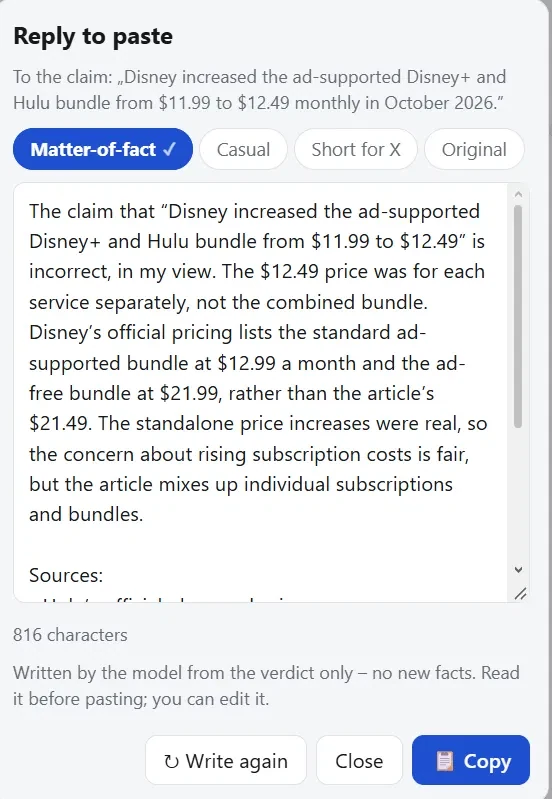
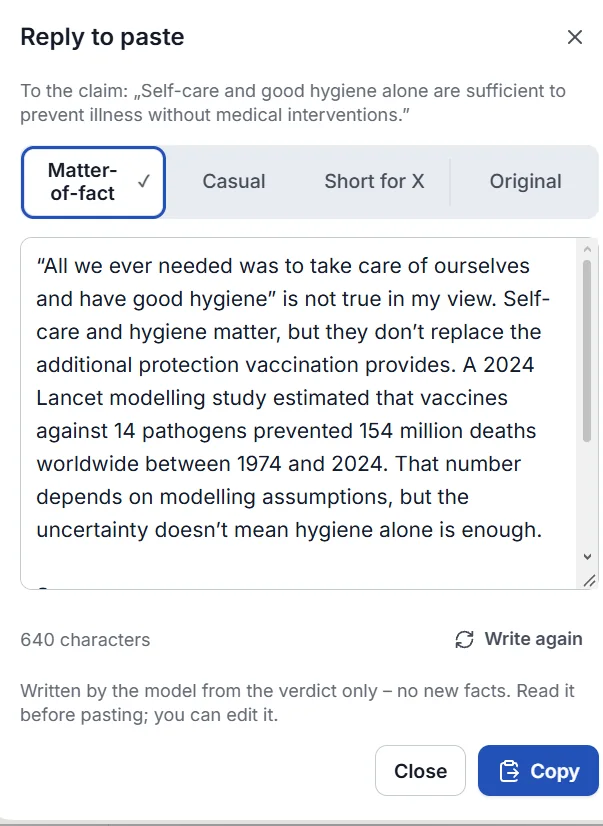
README: new English screenshots for 0.7.6
Real-use screenshots from Opera showing the 0.7.6 panel: a CNN article (top
image), a Facebook post with the result box under it, an X post with an image,
the "Copy as reply" window and a YouTube debate checked live. A private
commenter, a profile picture with another person and an account inside an
embedded screenshot are blurred.

Claude-Session: https://claude.ai/code/session_01J2r89jmiYBdtD1PuvgxGKG

diff --git a/README.md b/README.md
@@ -32,7 +32,7 @@ ready reply to paste. It also checks debates and podcasts live.
 Full guide in Polish: **[INSTRUKCJA.md](INSTRUKCJA.md)** · What's new: **[CHANGELOG.md](CHANGELOG.md)** ·
 Privacy: **[PRIVACY.md](PRIVACY.md)**
 
-![A news article checked in Opera: verdicts highlighted in the text with a tooltip, and cards with the claim, the assessment, what supports it, the context and the sources](docs/demo-en-article.webp)
+![A CNN article checked in Opera: claims highlighted in the text in the verdict's colour, verdict counts and the overall rating in the panel – what holds, what is wrong and what needs context](docs/demo-en-article.webp)
 
 ---
 
@@ -61,6 +61,8 @@ verdict with sources:
 - 🔲 **Screen area** – drag a rectangle around anything: a chart in a video, a screenshot, a comment.
 - You see a preview before anything is sent. Verdicts are **highlighted on the page** in the verdict's colour, with a tooltip.
 
+![A Facebook post checked with the post icon: the Fact Checker result box under the post with the overall rating, the verdict, the opinion, sources and “Copy as reply”, and the overall rating with image notes in the panel](docs/demo-en-post-frame.webp)
+
 **What you get**
 - **Overall rating** above the cards – one of five named levels: *Reliable* · *Reliable, minor errors* · *Mixed* ·
   *Misleading* · *Unreliable*. One or two sentences on what the piece says and whether it holds, plus ✓ what holds,
@@ -80,7 +82,7 @@ verdict with sources:
   (truncated axes, cherry-picked ranges), screenshots of posts and satire. Reverse image search (Google Lens, TinEye, Yandex) for
   photos taken out of context.
 
-![An X post with a video screenshot checked in Opera: the panel dates the footage from its caption and rates the claim “Misleading”, with the assessment, what supports it and the context](docs/demo-en-post-video.webp)
+![An X post with a screenshot of a Truth Social post checked in Opera: the result box under the post and, in the panel, the overall rating “Misleading”, the verdict cards and a rhetorical trick](docs/demo-en-post-x.webp)
 
 **Answering under the post**
 - **📋 Copy as reply** – opens on the *Original* verdict text right away (no AI, free); the model writes a comment in
@@ -89,7 +91,7 @@ verdict with sources:
 - **Whole post** – “Copy as reply” under the overall rating gives one comment covering all verdicts, starting from the
   overall rating and the main message.
 
-<img src="docs/demo-en-reply.webp" width="420" alt="Copy as reply: a comment in plain language in the “Matter-of-fact” tone, with tabs for Casual, Short for X and Original">
+<img src="docs/demo-en-reply.webp" width="420" alt="Copy as reply: a comment in plain language in the “Matter-of-fact” tone, with tabs for Casual, Short for X and Original on the right">
 
 ### Better verdicts
 
@@ -113,7 +115,7 @@ verdict with sources:
 - **Report:** the whole debate as a document – verdict breakdown, speakers table (claims, true, problems, tricks), all verdicts
   with sources; print / save as PDF or download as HTML.
 
-![Fact Checker checking a YouTube debate live](docs/demo-en-vaccines.webp)
+![Fact Checker checking a YouTube debate on vaccines live: the “Searching the web” bar with a timer and Stop, and a “False” card with the quote, the explanation, what supports it and the sources](docs/demo-en-live.webp)
 
 ### Sessions, costs and privacy
 
